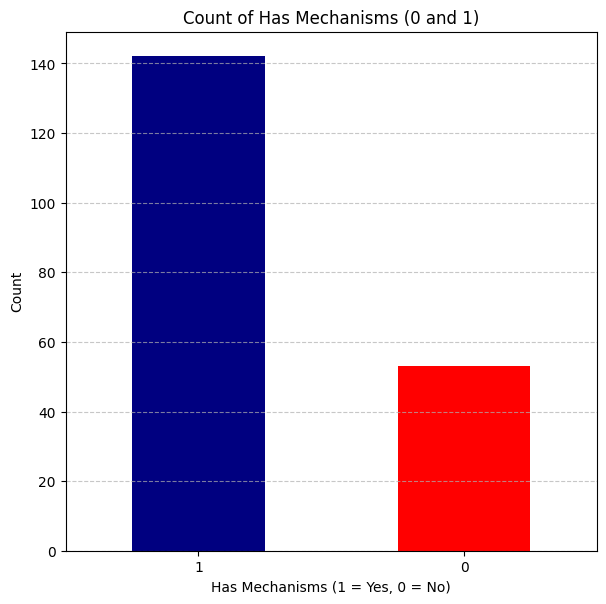
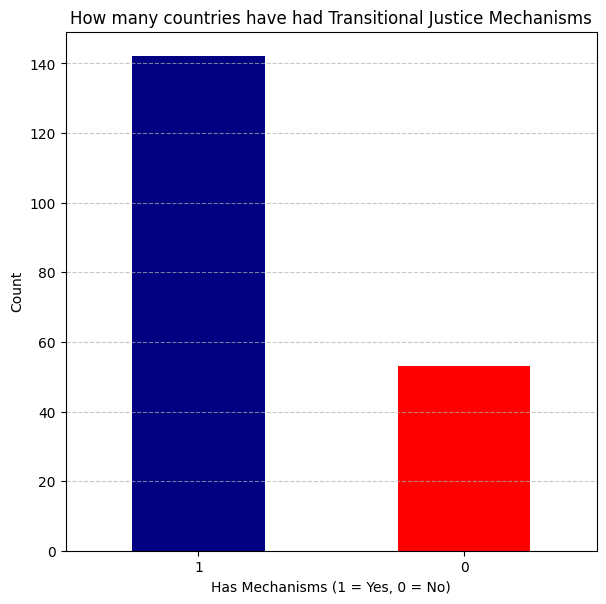
Python update v2
Minor string addition

Changed region(s): [[0.1188, 0.0, 0.9802, 0.0596]]

diff --git a/Exam.py b/Exam.py
@@ -65,7 +65,7 @@ has_mechanisms_counts = tjet_clean_2021['has_mechanisms'].value_counts()
 
 plt.figure(figsize=(6, 5))
 has_mechanisms_counts.plot(kind='bar', color=['navy', 'red'])
-plt.title('Count of Has Mechanisms (0 and 1)')
+plt.title('How many countries have had Transitional Justice Mechanisms')
 plt.xlabel('Has Mechanisms (1 = Yes, 0 = No)')
 plt.ylabel('Count')
 plt.xticks(rotation=0)
